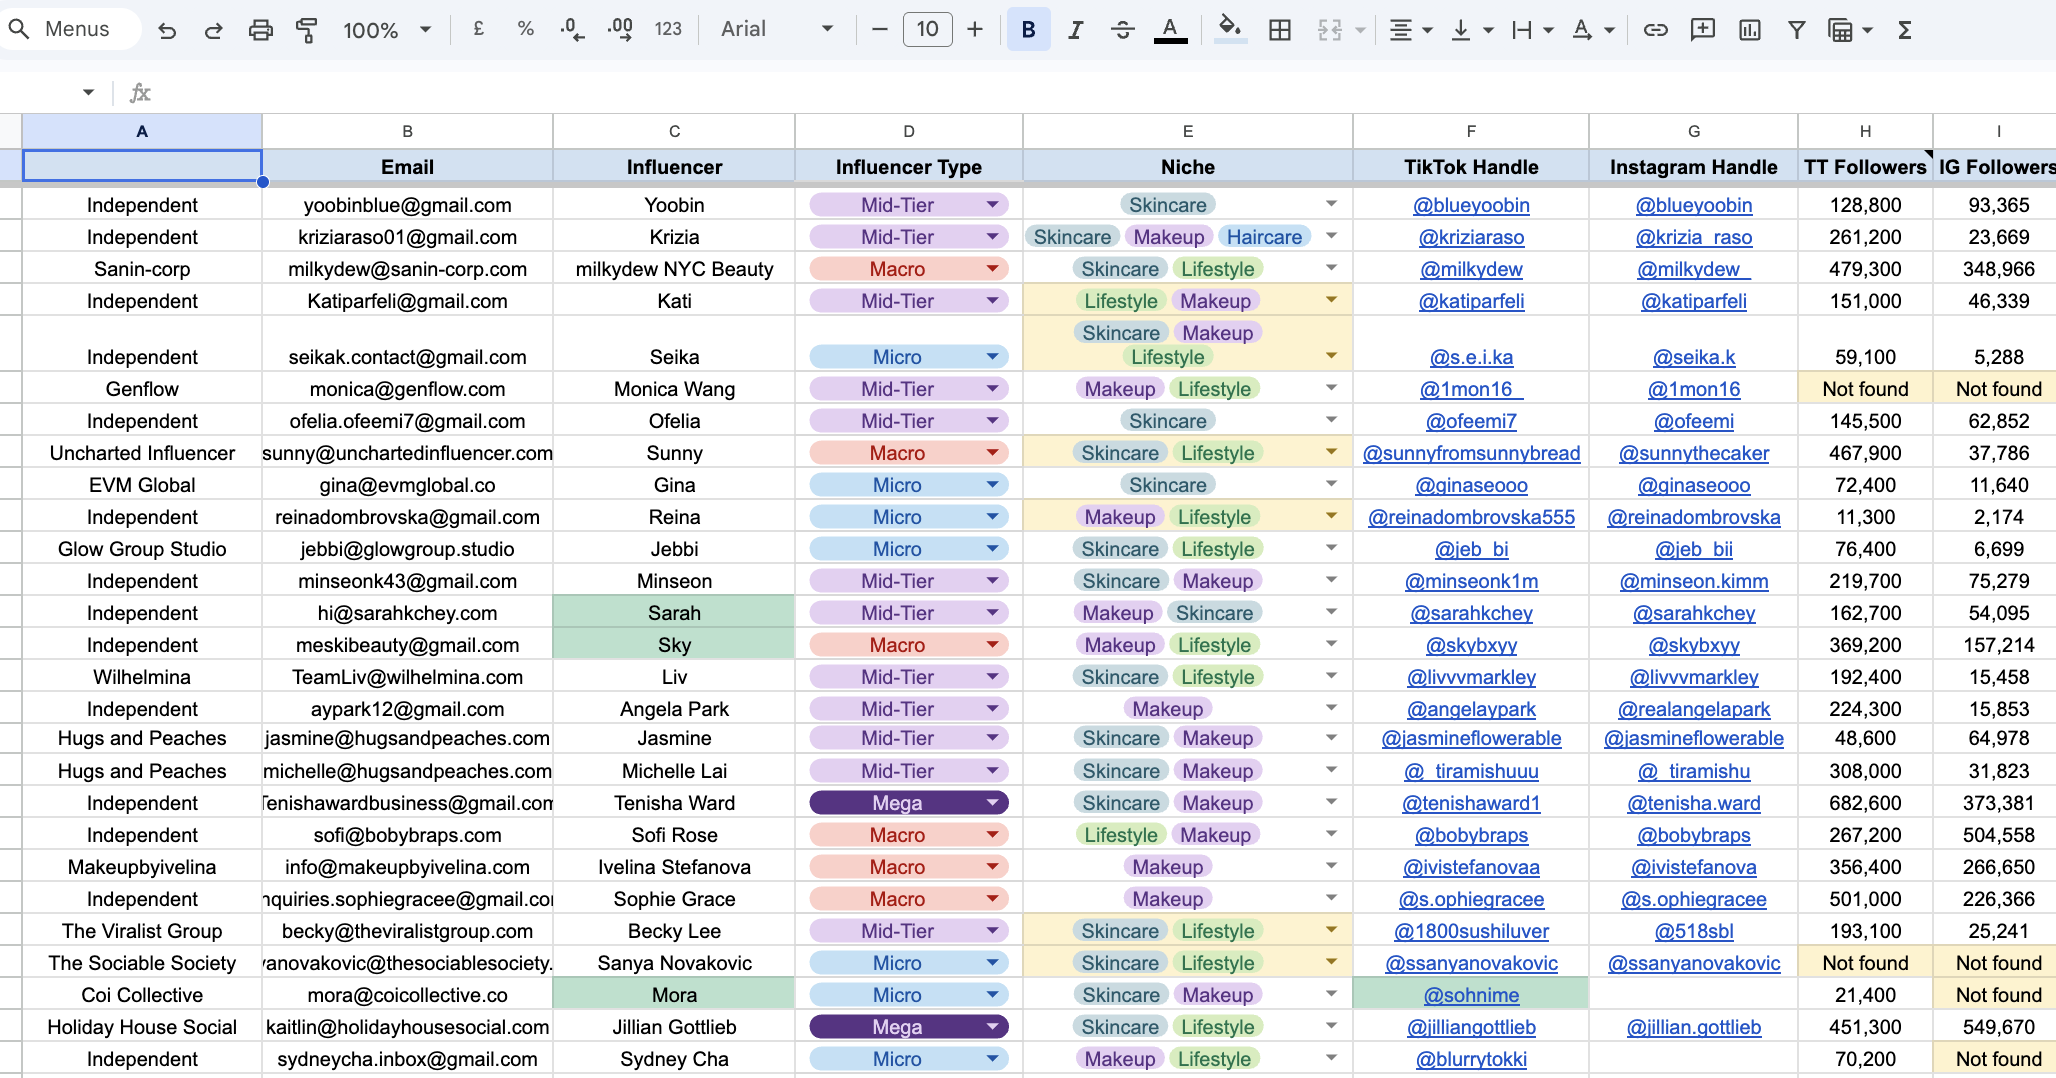
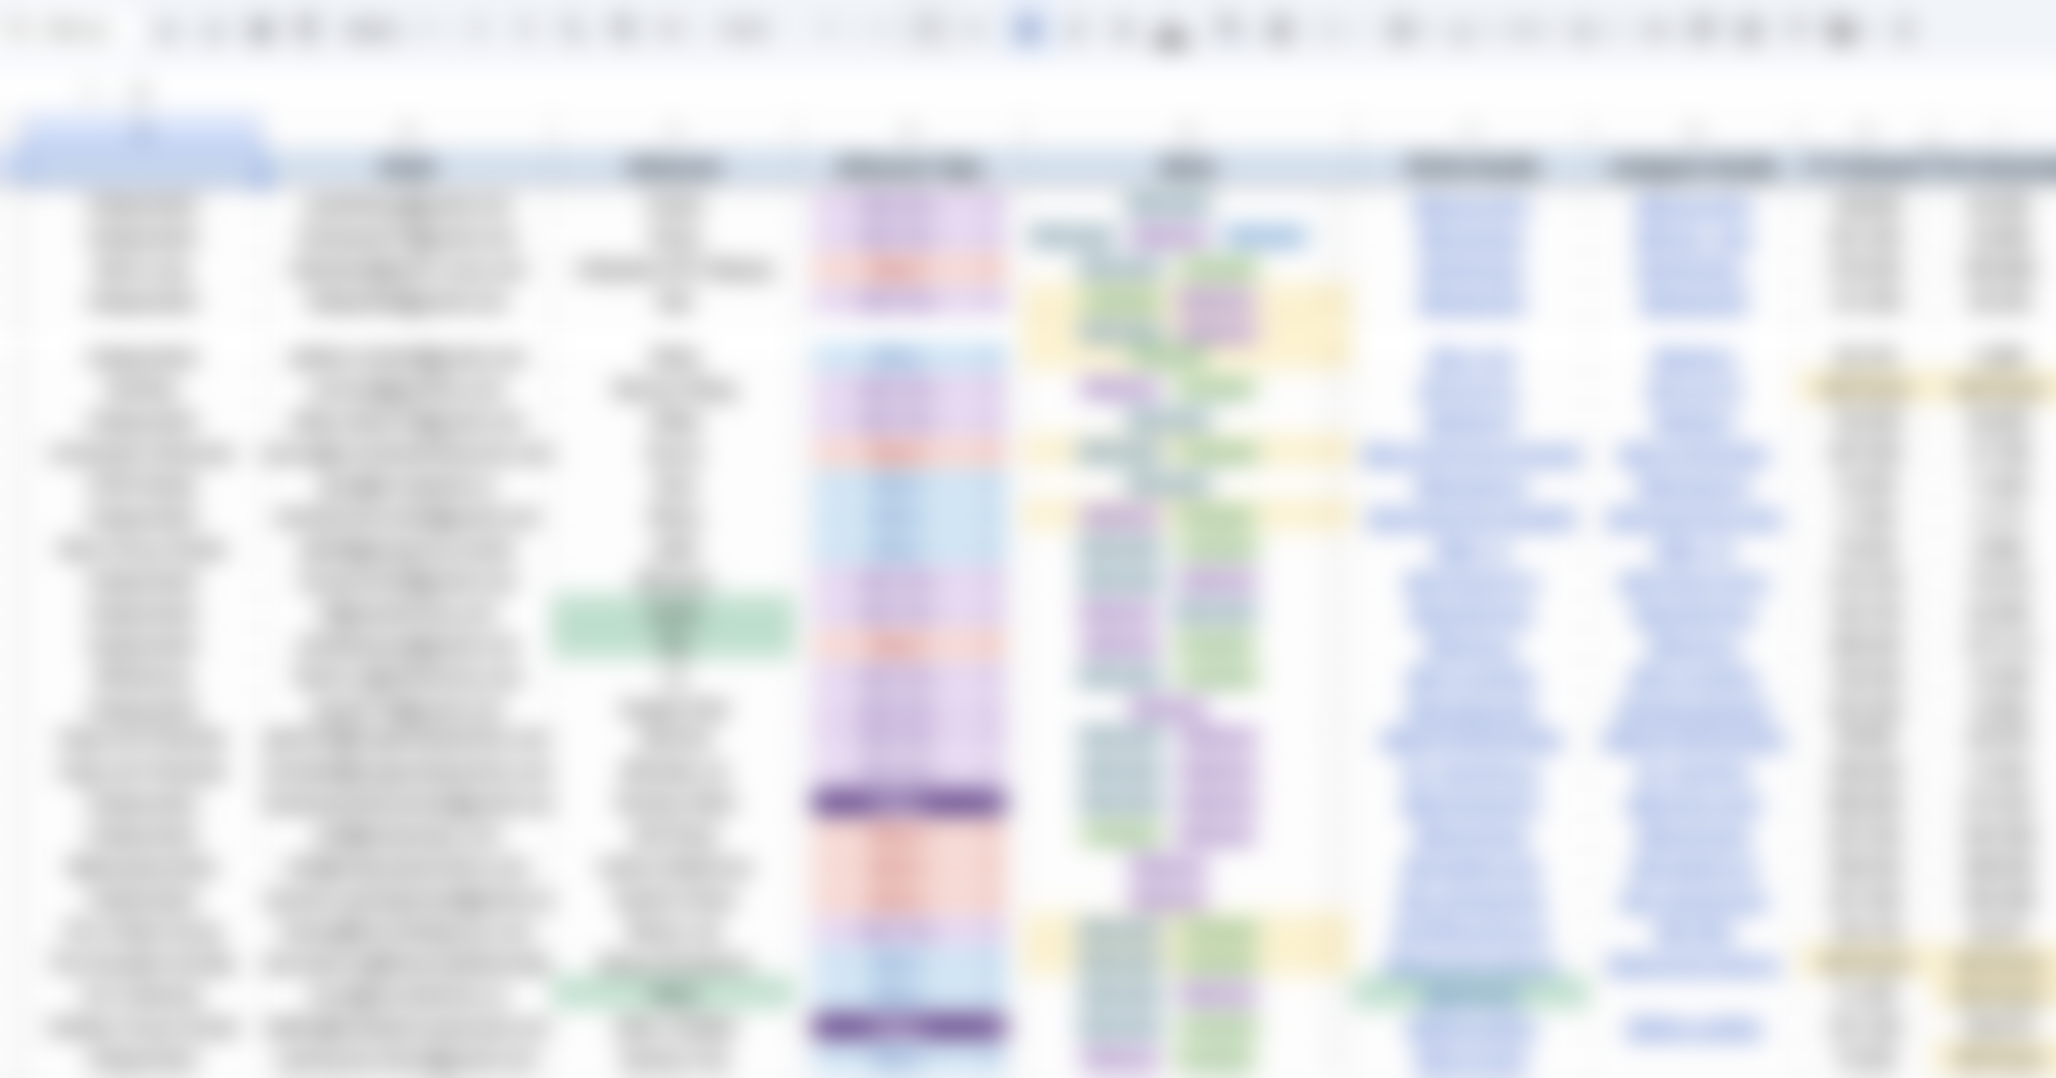
image preview

diff --git a/app/opengraph-image.tsx b/app/opengraph-image.tsx
@@ -1,0 +1,104 @@
+import { ImageResponse } from "next/og";
+
+export const alt = "Bonsai Digital, a Japan-based digital studio";
+export const size = { width: 1200, height: 630 };
+export const contentType = "image/png";
+
+// Brand tokens from app/globals.css, resolved to hex for satori
+const cream = "#f9f7f2"; // --background: 40 30% 97%
+const ink = "#21282c"; // --foreground: 200 15% 15%
+const sage = "#437059"; // --primary: 150 25% 35%
+
+const wordmark = "Bonsai Digital";
+const tagline = "DIGITAL STUDIO · TOKYO, JAPAN";
+
+async function loadGoogleFont(family: string, text: string) {
+  const url = `https://fonts.googleapis.com/css2?family=${encodeURIComponent(
+    family
+  )}&text=${encodeURIComponent(text)}`;
+  const css = await (await fetch(url)).text();
+  const resource = css.match(
+    /src: url\((.+?)\) format\('(opentype|truetype)'\)/
+  );
+
+  if (resource) {
+    const response = await fetch(resource[1]);
+    if (response.status === 200) {
+      return await response.arrayBuffer();
+    }
+  }
+
+  throw new Error(`Failed to load font: ${family}`);
+}
+
+export default async function Image() {
+  const [cormorant, inter] = await Promise.all([
+    loadGoogleFont("Cormorant Garamond:wght@600", wordmark),
+    loadGoogleFont("Inter:wght@500", tagline),
+  ]);
+
+  return new ImageResponse(
+    (
+      <div
+        style={{
+          width: "100%",
+          height: "100%",
+          display: "flex",
+          flexDirection: "column",
+          alignItems: "center",
+          justifyContent: "center",
+          backgroundColor: cream,
+        }}
+      >
+        <div
+          style={{
+            width: 56,
+            height: 3,
+            backgroundColor: sage,
+            marginBottom: 44,
+          }}
+        />
+        <div
+          style={{
+            fontFamily: "Cormorant Garamond",
+            fontSize: 116,
+            fontWeight: 600,
+            color: ink,
+            lineHeight: 1,
+          }}
+        >
+          {wordmark}
+        </div>
+        <div
+          style={{
+            fontFamily: "Inter",
+            fontSize: 24,
+            fontWeight: 500,
+            color: sage,
+            letterSpacing: 8,
+            marginTop: 48,
+          }}
+        >
+          {tagline}
+        </div>
+      </div>
+    ),
+    {
+      ...size,
+      fonts: [
+        {
+          name: "Cormorant Garamond",
+          data: cormorant,
+          weight: 600,
+          style: "normal",
+        },
+        {
+          name: "Inter",
+          data: inter,
+          weight: 500,
+          style: "normal",
+        },
+      ],
+    }
+  );
+}

diff --git a/app/[locale]/layout.tsx b/app/[locale]/layout.tsx
@@ -20,26 +20,47 @@ const inter = Inter({
   display: "swap",
 });
 
-export const metadata: Metadata = {
-  title: "Bonsai Digital",
-  description:
-    "Japan-based digital agency cultivating your digital growth. We craft websites and applications with precision and care.",
-  icons: {
-    icon: [
-      { url: "/favicon/favicon.ico", sizes: "any" },
-      { url: "/favicon/favicon.svg", type: "image/svg+xml" },
-      { url: "/favicon/favicon-96x96.png", sizes: "96x96", type: "image/png" },
-    ],
-    apple: "/favicon/apple-touch-icon.png",
-  },
-  manifest: "/favicon/site.webmanifest",
-  openGraph: {
-    title: "Bonsai Digital",
-    description:
-      "Japan-based digital agency cultivating your digital growth. We craft websites and applications with precision and care.",
-    type: "website",
-  },
+const descriptions: Record<Locale, string> = {
+  en: "Japan-based digital agency cultivating your digital growth. We craft websites and applications with precision and care.",
+  ja: "日本拠点のデジタルスタジオ。ウェブサイトからアプリケーションまで、ビジネスに本当に役立つデジタルプロダクトを丁寧に設計し、形にします。",
 };
+
+export function generateMetadata({
+  params,
+}: {
+  params: { locale: string };
+}): Metadata {
+  const locale = (params.locale === "ja" ? "ja" : "en") as Locale;
+  const description = descriptions[locale];
+
+  return {
+    metadataBase: new URL("https://bonsaidigitalstudio.com"),
+    title: "Bonsai Digital",
+    description,
+    icons: {
+      icon: [
+        { url: "/favicon/favicon.ico", sizes: "any" },
+        { url: "/favicon/favicon.svg", type: "image/svg+xml" },
+        { url: "/favicon/favicon-96x96.png", sizes: "96x96", type: "image/png" },
+      ],
+      apple: "/favicon/apple-touch-icon.png",
+    },
+    manifest: "/favicon/site.webmanifest",
+    openGraph: {
+      title: "Bonsai Digital",
+      description,
+      siteName: "Bonsai Digital",
+      url: locale === "ja" ? "/ja" : "/",
+      type: "website",
+      locale: locale === "ja" ? "ja_JP" : "en_US",
+    },
+    twitter: {
+      card: "summary_large_image",
+      title: "Bonsai Digital",
+      description,
+    },
+  };
+}
 
 export function generateStaticParams() {
   return [{ locale: "en" }, { locale: "ja" }];

diff --git a/middleware.ts b/middleware.ts
@@ -13,10 +13,12 @@ export function middleware(request: NextRequest) {
 
   if (pathnameHasLocale) return NextResponse.next();
 
-  // Skip static files and API routes
+  // Skip static files, API routes, and metadata image routes
   if (
     pathname.startsWith("/_next") ||
     pathname.startsWith("/api") ||
+    pathname.startsWith("/opengraph-image") ||
+    pathname.startsWith("/twitter-image") ||
     pathname.includes(".")
   ) {
     return NextResponse.next();

diff --git a/app/twitter-image.tsx b/app/twitter-image.tsx
@@ -1,0 +1,1 @@
+export { default, alt, size, contentType } from "./opengraph-image";
